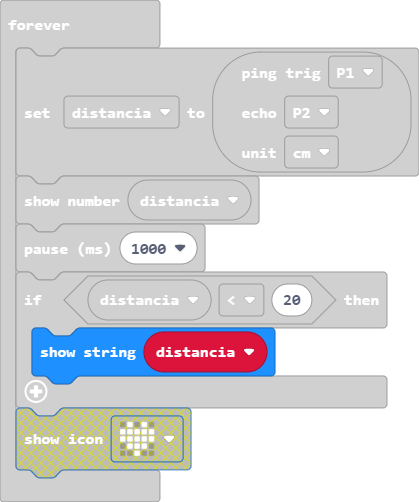
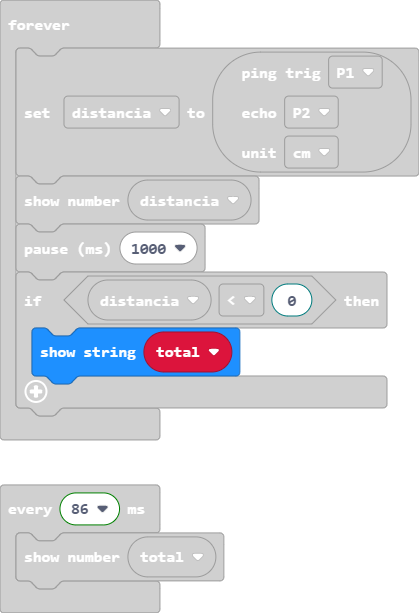
Update main.blocks, main.ts

diff --git a/main.ts b/main.ts
@@ -35,6 +35,9 @@ DigitalPin.P1,
 DigitalPin.P2,
 PingUnit.Centimeters
 )
+loops.everyInterval(86, function () {
+    basic.showNumber(total)
+})
 basic.forever(function () {
     distancia = sonar.ping(
     DigitalPin.P1,
@@ -43,10 +46,7 @@ basic.forever(function () {
     )
     basic.showNumber(distancia)
     basic.pause(1000)
-    if (distancia < 20) {
-        basic.showString("" + (distancia))
+    if (distancia < 0) {
+        basic.showString("" + (total))
     }
-})
-loops.everyInterval(100, function () {
-    basic.showNumber(total)
 })
